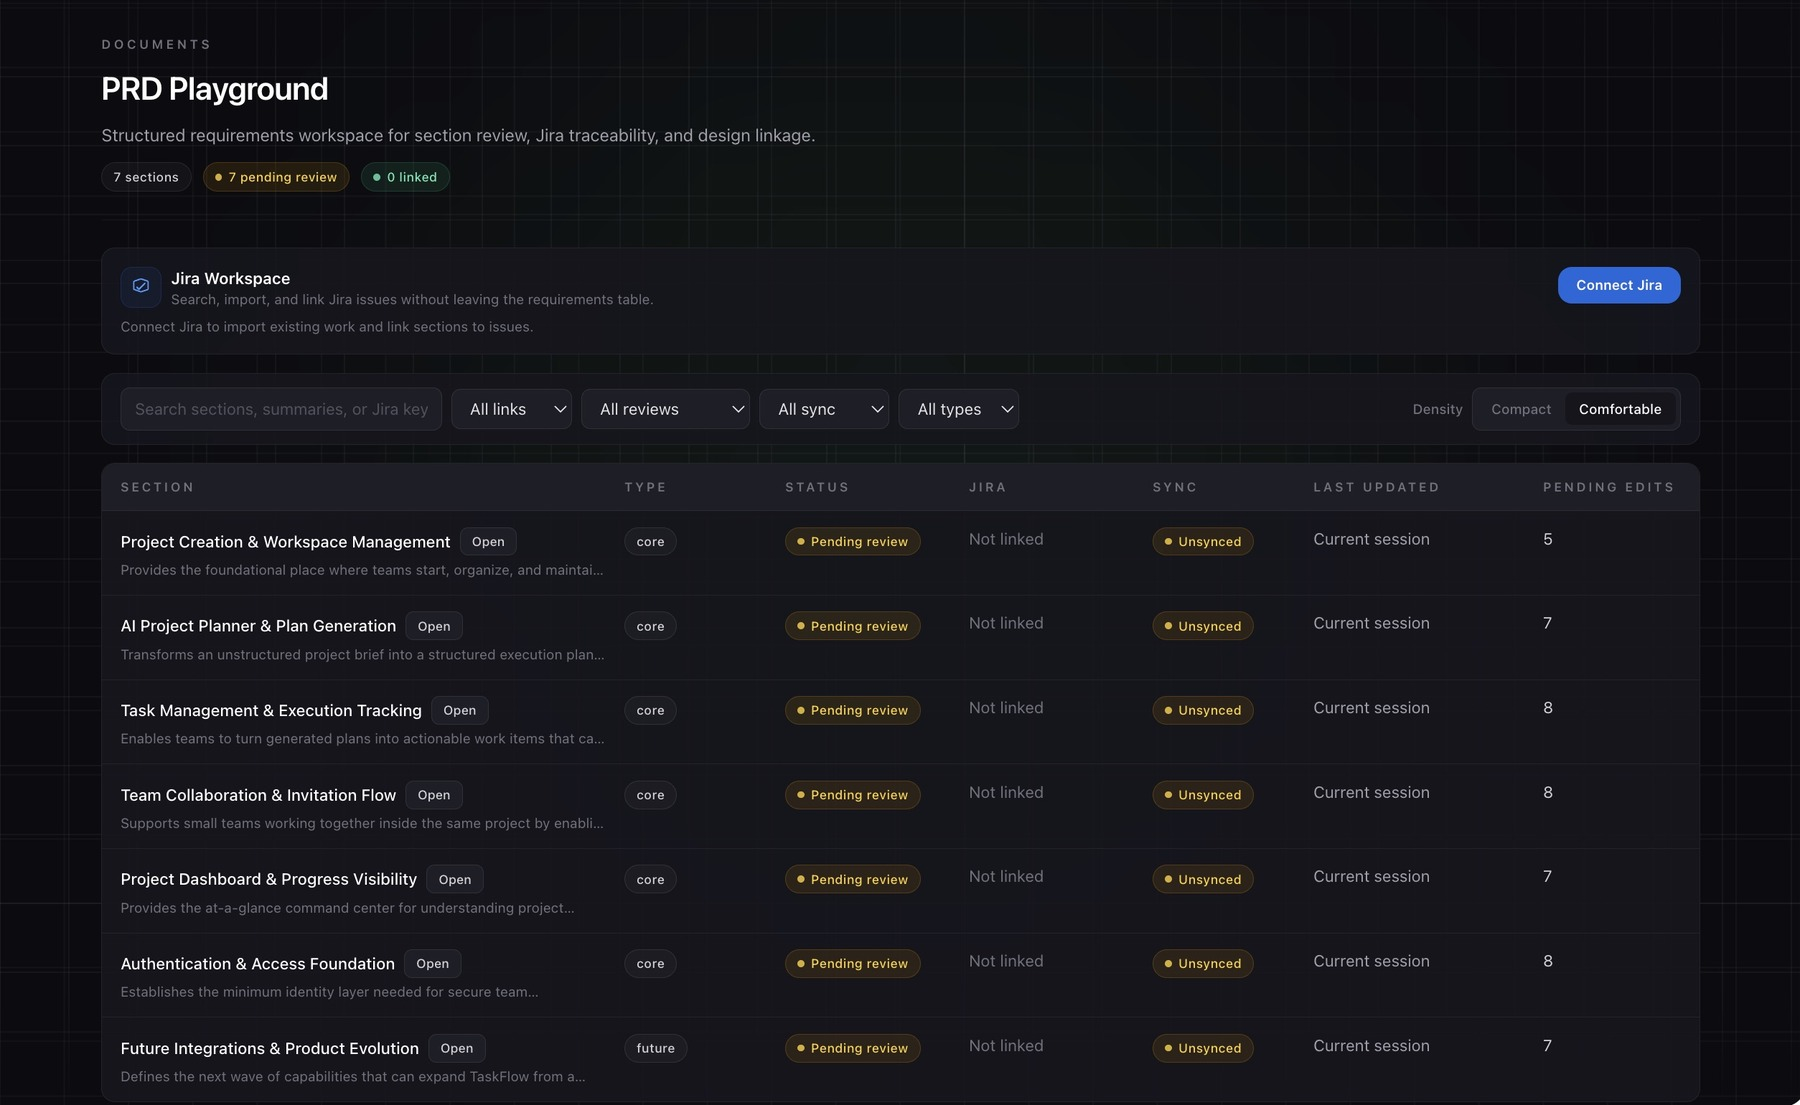
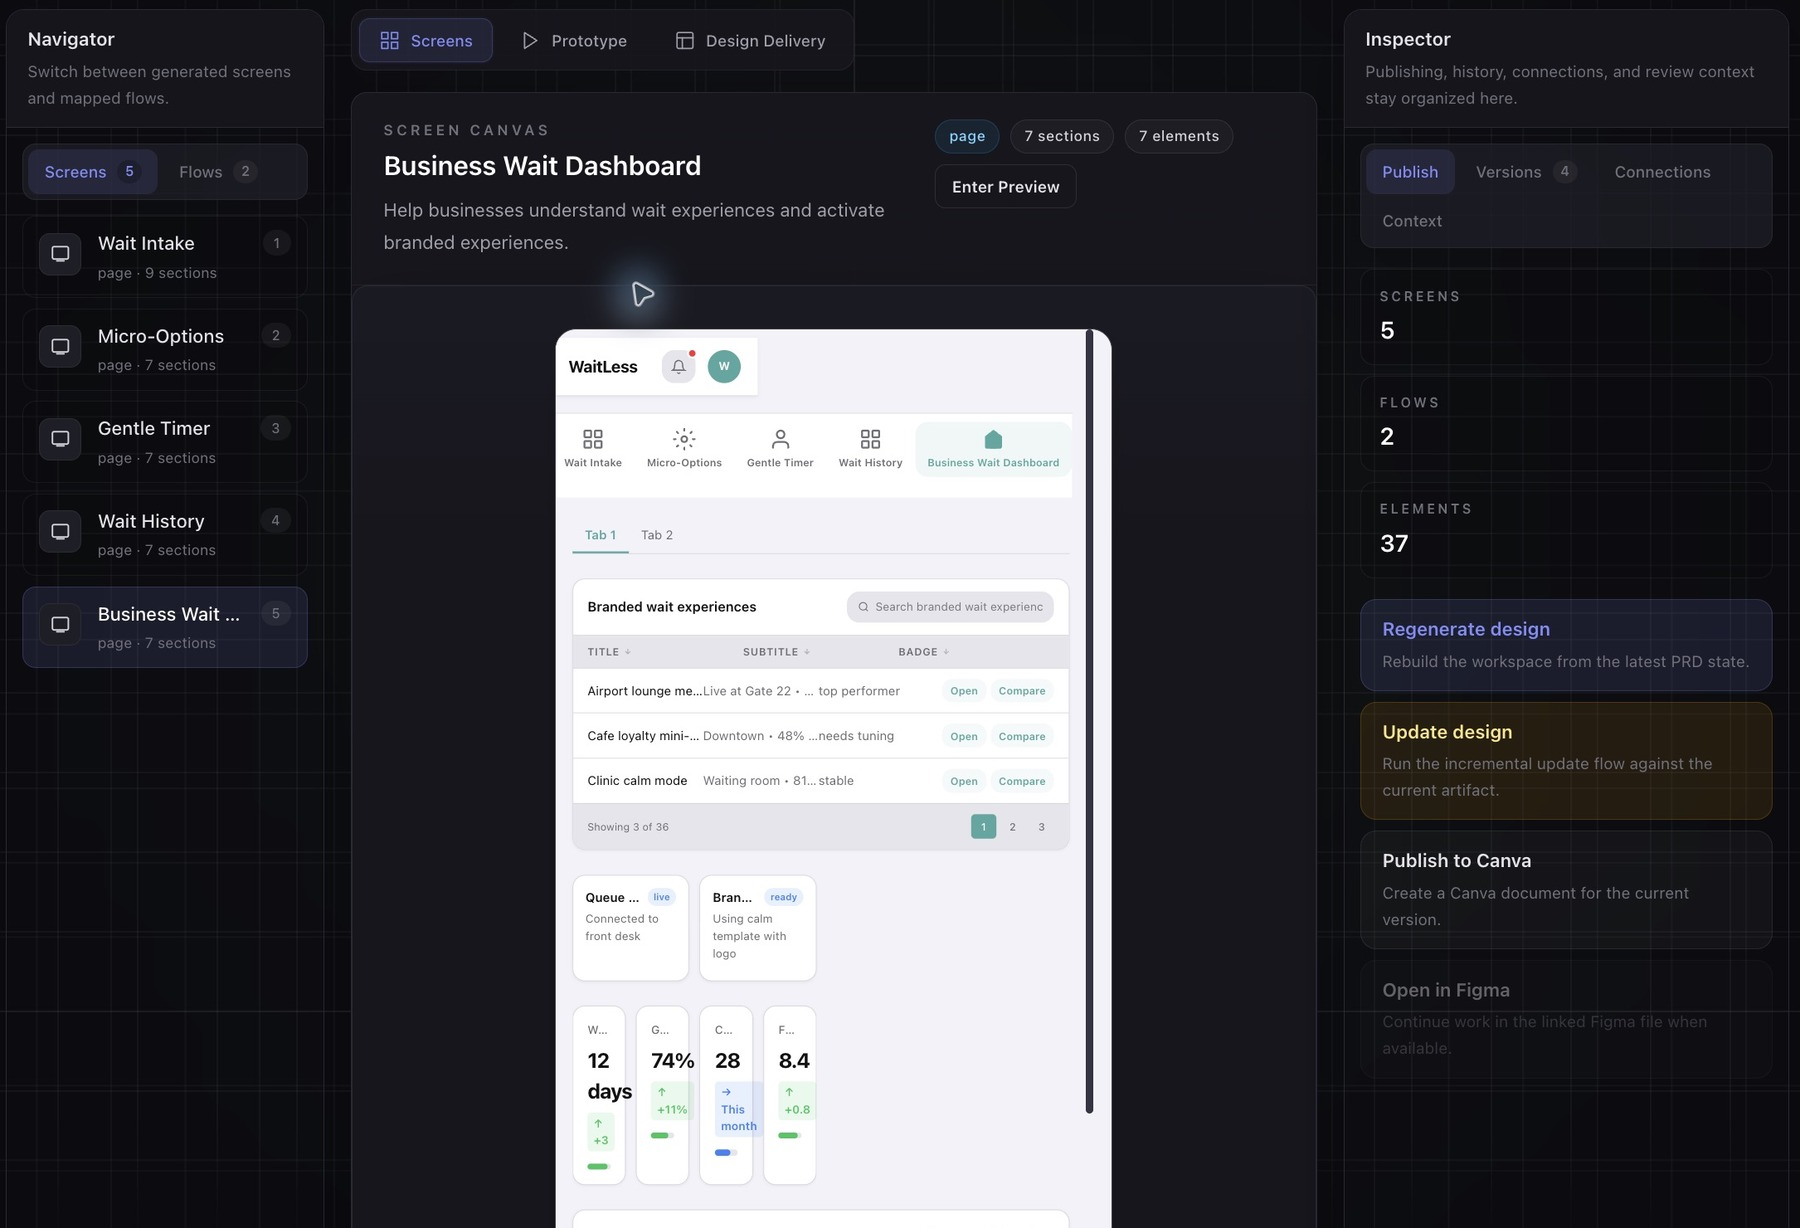
Use populated Signifi Designer for the product capture

diff --git a/index.html b/index.html
@@ -316,15 +316,15 @@
                 <img
                   class="product-image"
                   src="assets/signifi.jpg"
-                  alt="Signifi's actual PRD Playground in dark mode, showing requirement sections, review statuses, and Jira traceability"
+                  alt="Signifi's actual Designer in dark mode, showing a generated WaitLess screen beside the screen navigator and design inspector"
                   width="1800"
-                  height="1105"
+                  height="1228"
                   loading="lazy"
                   decoding="async"
                 />
               </div>
               <div class="visual-bottom">
-                <span>PRD PLAYGROUND</span><span>LIVE APP CAPTURE ↗</span>
+                <span>DESIGNER / GENERATED SCREENS</span><span>LIVE APP CAPTURE ↗</span>
               </div>
             </div>
             <div class="project-copy">

diff --git a/README.md b/README.md
@@ -16,6 +16,6 @@ Run `python3 -m http.server 4173` and open http://localhost:4173. No build or de
 
 ## Content provenance
 
-Role and project metrics come from the existing portfolio/resume. Award labels were checked against Devpost: [Graption](https://devpost.com/software/graption), [EchoLocate](https://devpost.com/software/echolocate-e4k3dg), [Gridly](https://devpost.com/software/gridly-0h29vm), and [FinMate](https://devpost.com/software/finmate-gj93c8). Signifi uses a capture of the authenticated PRD Playground at https://www.signifi.tech/ in dark mode, cropped to the product workspace without browser chrome or account controls. Graption uses the original “Deaf Individual POV” app capture from its Devpost gallery (https://d112y698adiu2z.cloudfront.net/photos/production/software_photos/004/357/309/datas/original.jpg). EchoLocate is presented as a four-person team project; its screenshot is from https://www.echolocate.us/.
+Role and project metrics come from the existing portfolio/resume. Award labels were checked against Devpost: [Graption](https://devpost.com/software/graption), [EchoLocate](https://devpost.com/software/echolocate-e4k3dg), [Gridly](https://devpost.com/software/gridly-0h29vm), and [FinMate](https://devpost.com/software/finmate-gj93c8). Signifi uses a capture of the authenticated Designer showing an existing generated WaitLess screen at https://www.signifi.tech/ in dark mode, cropped to the product workspace without browser chrome or account controls. Graption uses the original “Deaf Individual POV” app capture from its Devpost gallery (https://d112y698adiu2z.cloudfront.net/photos/production/software_photos/004/357/309/datas/original.jpg). EchoLocate is presented as a four-person team project; its screenshot is from https://www.echolocate.us/.
 
 Keep `CNAME` set to `www.akshajnad.tech`. GitHub Pages deploys the root of `main`.
